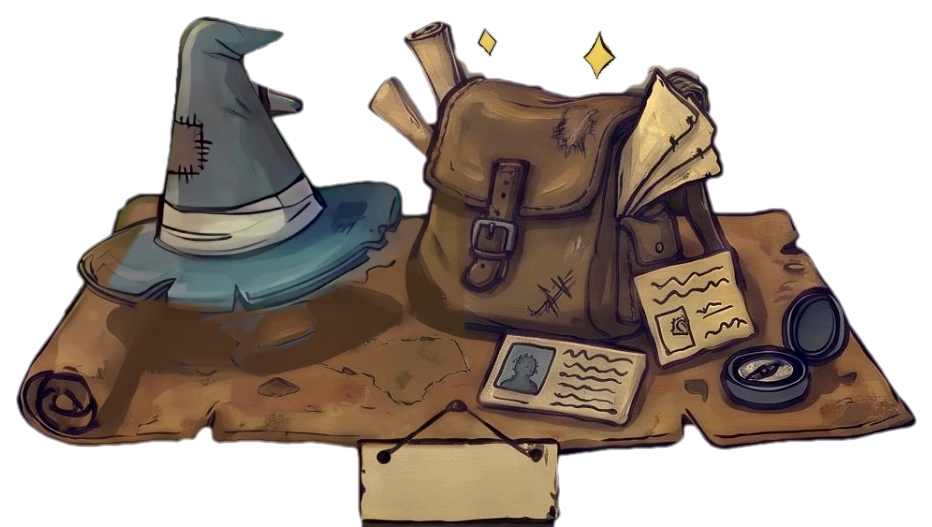
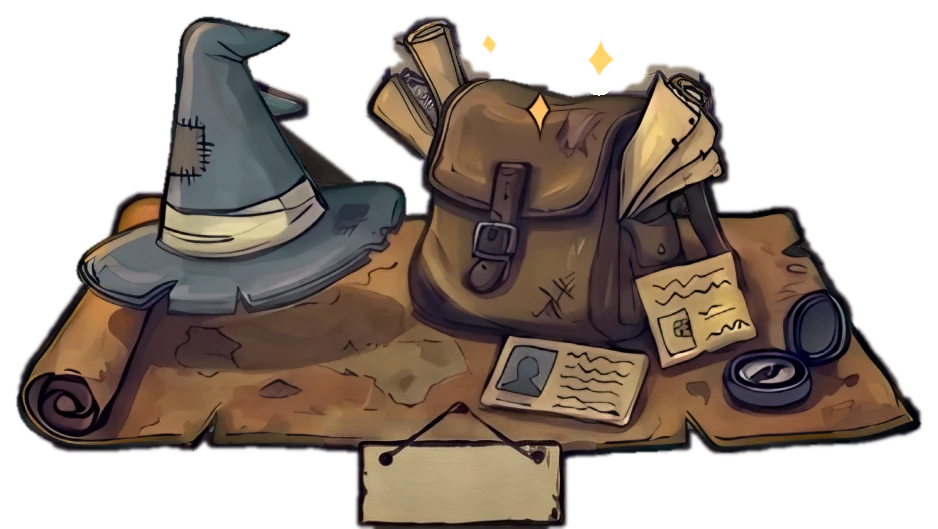
v26: Gemini hover art used directly for Documentation and About, new books hover, sign paper tint, Documentation rename, Copy link centring
Claude-Session: https://claude.ai/code/session_01DVG5f7VBQkdwappbx1RNPL

diff --git a/concepts/scenes/workshop.js b/concepts/scenes/workshop.js
@@ -12,7 +12,7 @@ PF.init({
   icons:{games:'art2/icon-games.png',docs:'art2/icon-docs.png',art:'art2/icon-art.png',about:'art2/icon-about.png',contact:'art2/icon-contact.png'},
   flavor:{
     games:{name:'Games',sub:'Shipped titles, student games and jams'},
-    docs:{name:'Documents',sub:'Fan GDDs and systems design logs'},
+    docs:{name:'Documentation',sub:'Fan GDDs and systems design logs'},
     art:{name:'3D Art',sub:'Models you can rotate'},
     about:{name:'About',sub:'Character sheet, experience, education'},
     contact:{name:'Contact',sub:'Email, CV and message form'}
@@ -20,8 +20,9 @@ PF.init({
   draw:function(svg,P){
     var el=P.el,K=900/572,OX=(1600-1024*K)/2,T='translate('+OX+',0) scale('+K+')';
     var CUT={raven:{x:49.69,y:19.48,w:233.74,h:296.94},construct:{x:769.59,y:48.10,w:254.41,h:273.49},books:{x:50.09,y:331.93,w:234.93,h:239.70},about:{x:333.52,y:358.96,w:377.24,h:212.67},disc:{x:674.98,y:275.88,w:284.22,h:295.75}};
-    var HOV={raven:{x:53.66,y:22.66,w:294.56,h:289.39},books:{x:45.32,y:212.67,w:245.66,h:197.96},construct:{x:748.52,y:50.48,w:205.12,h:209.09},about:{x:336.30,y:362.14,w:370.48,h:209.49},disc:{x:718.31,y:280.25,w:236.52,h:256.00}};
-    var RING={"disc":"M843.13 567.66 807.75 568.01 797.81 567.80 795.43 567.05 791.82 563.28 790.78 560.50 789.90 543.80 790.00 537.04 791.11 533.86 790.66 532.90 777.14 526.69 772.77 527.71 768.40 527.68 764.02 526.95 760.05 525.02 758.06 524.64 751.70 527.14 745.34 527.28 735.40 525.91 733.02 524.89 728.66 520.75 728.04 519.16 728.12 517.57 732.08 511.60 736.20 506.75 738.02 502.06 737.52 500.07 735.66 496.89 734.30 488.55 732.62 485.83 730.63 484.50 714.73 481.58 699.63 482.31 694.06 481.34 691.74 480.20 690.03 478.61 685.10 472.25 684.22 469.47 684.51 467.08 687.11 461.91 689.69 459.35 695.25 455.86 702.81 452.48 713.54 449.81 715.21 448.40 712.15 432.10 710.82 418.98 710.84 404.67 712.95 386.39 715.83 374.06 720.62 360.55 728.15 345.04 734.75 335.11 743.21 324.37 753.69 313.89 763.63 306.16 773.57 299.85 783.90 294.66 794.63 290.48 806.56 287.27 821.66 285.13 833.99 285.10 838.76 286.18 846.31 286.54 866.98 292.82 870.56 293.10 873.34 293.94 884.07 299.02 888.84 301.85 906.73 314.81 913.89 320.63 916.27 324.42 924.54 334.71 929.83 342.66 935.87 353.39 941.15 365.71 944.32 375.25 947.48 388.77 949.55 405.47 949.70 415.80 951.16 420.57 951.14 424.15 949.92 431.70 947.06 445.22 944.75 453.57 931.06 482.58 930.88 485.37 932.02 488.94 932.31 493.32 934.85 500.07 934.57 502.06 932.95 505.24 932.77 510.01 931.73 512.40 930.19 513.92 928.20 514.82 921.84 515.13 918.66 518.36 916.67 519.42 911.50 518.67 908.72 519.18 900.37 525.88 894.81 529.02 891.23 529.34 882.88 527.62 871.27 532.67 870.59 533.86 872.83 536.25 874.05 540.62 874.47 551.35 874.03 562.48 873.27 564.47 871.75 565.66 869.37 566.34 843.13 567.66Z","raven":"M142.71 308.88 135.95 309.21 124.82 308.32 122.43 307.29 120.40 305.69 119.48 304.10 119.01 301.71 119.23 291.78 117.71 281.04 118.37 276.27 119.87 274.68 122.43 273.73 132.91 273.09 137.90 268.72 138.29 267.93 137.93 267.13 132.37 266.03 128.80 265.91 111.70 267.86 69.17 267.82 65.19 267.20 62.01 266.00 59.05 263.55 57.37 261.17 56.11 254.41 56.41 240.50 58.54 235.73 60.02 234.19 62.81 232.54 63.61 230.56 63.27 207.11 63.84 202.73 64.93 199.16 63.29 190.81 62.87 168.94 63.54 163.78 66.38 155.83 64.62 150.26 63.68 143.50 63.65 127.60 64.15 122.04 65.82 115.68 68.56 109.71 66.99 105.74 66.98 102.16 68.69 93.02 72.28 81.89 75.73 75.13 79.80 69.57 83.08 66.42 87.78 64.00 89.72 58.04 94.21 52.77 115.68 36.08 120.05 33.68 127.20 32.32 132.77 29.65 138.73 27.74 150.26 25.64 163.38 25.08 175.30 25.59 185.24 27.57 189.22 29.12 192.80 31.47 199.95 32.53 205.52 34.95 218.63 44.51 226.19 50.78 229.38 54.06 231.48 58.04 235.33 60.42 238.60 63.60 240.99 67.18 246.75 78.31 253.01 96.99 254.29 102.56 254.10 107.73 255.30 111.30 255.85 115.28 256.42 125.61 256.77 126.81 257.59 127.51 259.98 127.43 268.72 124.69 270.71 125.12 273.09 126.60 274.68 126.79 284.22 124.08 293.50 120.45 310.86 110.23 315.23 108.20 317.22 108.47 318.79 110.11 318.91 112.50 317.51 116.47 318.01 117.19 318.81 117.18 323.67 114.88 335.11 108.22 338.29 107.27 339.88 107.66 341.25 108.92 341.71 110.51 341.33 112.89 338.59 117.66 332.30 124.82 332.17 126.01 333.91 126.23 345.04 122.83 346.63 123.18 347.73 124.02 348.47 126.81 346.72 130.39 339.88 137.24 335.90 140.14 325.59 145.89 325.81 146.68 326.76 147.01 335.90 147.63 337.49 148.81 338.04 150.66 337.09 152.76 333.91 155.61 323.11 160.60 322.92 161.39 324.12 164.57 322.78 166.99 319.20 169.06 314.43 170.89 308.87 170.89 306.56 174.51 304.89 175.94 301.71 177.51 296.15 179.15 294.78 182.46 292.97 184.24 290.58 185.10 283.03 186.30 280.71 189.61 279.06 190.91 272.55 192.00 271.30 195.58 269.91 196.95 266.73 198.11 262.76 198.19 261.68 199.16 258.40 205.12 257.60 211.48 256.78 228.57 257.59 230.72 261.57 232.72 263.45 234.53 264.98 237.32 265.98 240.50 267.02 246.06 267.05 253.22 265.96 259.98 264.35 262.43 260.77 264.90 256.80 265.86 204.72 266.31 184.49 267.93 183.72 268.72 183.86 269.52 186.83 271.86 188.82 272.30 198.36 272.56 200.30 273.49 201.48 275.08 201.89 277.86 201.88 302.11 201.54 304.10 200.75 305.31 197.96 306.71 188.02 307.60 142.71 308.88Z","books":"M215.85 567.70 137.14 568.01 129.59 566.55 127.20 565.00 124.82 562.55 123.07 558.51 122.48 549.76 122.55 535.45 123.83 531.48 126.01 528.91 129.19 526.59 134.56 524.72 134.76 523.48 113.23 515.18 90.63 508.15 60.02 496.77 56.30 494.51 53.07 490.53 52.19 487.35 52.41 482.98 53.72 479.80 57.16 475.83 57.55 473.84 56.05 464.36 54.46 460.47 51.34 456.75 50.13 453.96 49.74 450.39 50.24 447.20 51.34 444.82 53.66 442.27 59.25 438.86 60.34 437.66 60.08 430.51 60.58 426.14 64.60 414.21 68.77 409.87 74.73 407.21 75.83 406.26 75.28 396.72 76.46 391.95 77.95 388.77 80.70 385.85 83.08 384.13 96.26 378.43 98.25 376.84 97.89 375.25 93.51 369.69 91.33 364.52 89.56 357.76 89.52 348.62 90.79 342.26 92.75 337.49 96.60 331.43 99.30 328.75 101.37 327.47 106.93 326.12 112.89 326.01 137.94 327.96 151.85 327.89 159.80 325.02 169.34 322.76 172.12 322.82 176.94 323.98 178.88 323.80 198.28 316.42 207.90 312.24 213.47 311.06 218.24 311.79 224.20 314.55 232.55 316.33 236.12 318.64 239.97 323.18 241.21 327.55 240.31 339.08 241.52 343.85 241.52 348.22 240.04 352.20 235.33 357.03 232.15 358.82 227.38 359.94 215.45 360.16 201.14 362.02 194.78 362.19 190.01 363.26 189.21 364.12 200.75 367.68 207.11 370.97 226.19 374.70 244.47 376.98 250.43 378.18 253.22 379.39 256.17 382.01 257.79 384.40 258.72 388.37 258.61 391.95 256.79 397.91 256.79 399.50 258.98 402.68 260.77 407.00 263.16 410.24 264.23 413.81 264.11 417.79 261.54 423.35 261.64 426.14 262.60 427.73 267.85 432.10 273.89 435.90 277.14 439.25 279.15 442.43 280.89 446.81 281.69 451.18 281.33 463.90 280.04 471.45 278.53 475.83 276.27 478.80 273.09 481.30 257.19 488.37 231.03 497.69 210.68 506.31 189.61 513.89 187.74 515.18 187.56 516.37 188.42 517.43 197.63 523.53 200.35 523.96 214.66 523.73 217.84 524.28 221.81 525.95 225.59 529.89 226.92 534.66 226.81 538.63 225.66 543.01 226.81 547.78 227.30 552.94 226.77 558.51 225.34 562.09 222.61 565.00 219.83 566.72 215.85 567.70Z","construct":"M1023.60 271.46 1020.02 271.33 1012.07 269.92 993.39 269.48 983.06 270.01 980.27 270.59 978.75 271.50 977.13 274.29 976.93 276.67 978.29 279.75 981.86 282.59 982.80 284.22 983.07 297.74 984.18 304.89 983.42 308.07 979.88 310.93 945.29 311.99 918.26 311.67 911.90 312.36 909.12 311.85 906.29 310.06 905.22 307.28 905.21 299.33 905.89 294.96 905.65 285.81 908.00 281.04 908.55 278.66 908.00 276.27 906.67 274.29 904.44 273.09 897.99 271.54 889.24 270.32 867.38 270.66 860.22 269.90 845.12 269.65 837.57 266.21 830.01 260.80 823.25 258.62 815.70 255.21 810.53 253.51 804.57 249.33 800.04 244.87 794.57 242.48 792.81 240.50 790.58 236.52 785.60 232.55 782.41 223.40 782.57 220.22 784.70 216.41 785.31 214.26 784.92 211.88 783.50 209.55 781.52 208.34 774.76 206.08 766.01 202.21 755.68 196.23 751.39 192.40 750.65 190.41 750.57 187.63 751.92 173.71 753.85 166.16 757.27 160.52 760.94 152.25 763.23 149.36 766.41 147.65 770.39 146.56 775.55 146.04 780.72 146.40 783.50 147.21 788.27 150.10 795.43 150.87 803.76 153.84 807.75 153.93 808.94 153.36 813.99 139.93 812.92 136.22 808.12 131.98 807.02 128.80 807.03 124.02 807.53 122.04 808.88 120.45 812.15 118.06 813.89 114.48 813.71 111.80 811.58 106.93 812.40 102.96 814.76 99.38 821.66 92.60 823.65 91.68 828.42 90.75 829.95 89.84 832.61 84.67 834.39 82.79 837.57 81.23 844.72 79.24 847.11 79.79 851.19 83.08 853.86 83.92 857.04 83.60 860.62 81.70 863.01 81.18 873.34 82.49 877.30 81.89 879.62 80.30 880.98 77.52 881.24 75.53 880.56 70.76 881.07 68.37 886.86 62.55 892.02 60.28 897.59 60.55 900.27 60.02 901.57 59.17 904.75 55.30 909.12 53.18 912.70 52.54 918.26 53.04 922.61 54.86 925.06 58.83 927.01 60.39 930.19 61.11 934.56 61.07 938.53 62.58 942.60 66.39 944.75 69.96 945.13 72.75 943.53 77.91 943.62 80.30 944.97 83.08 948.61 85.86 950.40 88.25 950.78 96.20 950.26 98.98 949.31 100.57 944.60 103.35 943.07 104.94 942.04 107.33 941.95 109.32 943.30 115.20 944.26 117.27 945.79 118.86 951.59 122.04 956.34 132.37 960.74 137.94 961.77 140.32 962.32 143.90 962.10 148.27 957.32 156.22 956.56 159.80 957.67 163.78 961.02 170.14 962.00 175.30 964.82 181.66 965.59 188.82 969.22 195.18 969.48 206.31 968.42 212.67 969.54 216.37 971.93 218.41 976.91 219.43 990.21 218.88 992.20 219.63 996.25 222.61 1001.74 223.43 1007.30 222.37 1010.88 218.17 1013.27 216.72 1023.60 215.89Z","about":"M559.70 567.76 478.21 567.87 477.01 567.25 476.33 565.66 476.34 561.29 477.13 556.92 476.63 544.20 476.22 542.55 475.03 541.64 468.27 541.30 460.32 540.20 453.17 540.54 436.47 539.79 422.96 540.14 420.17 539.57 416.60 537.61 415.40 537.88 412.62 540.00 410.24 540.65 400.70 539.41 391.95 540.51 378.83 541.34 364.92 541.30 357.76 539.26 351.40 534.79 344.67 528.30 342.93 525.12 341.98 521.14 341.99 516.77 342.94 512.00 346.11 505.24 356.98 489.74 357.59 488.15 357.53 484.97 357.99 483.38 363.06 475.83 363.29 474.24 361.88 468.27 363.46 462.71 365.25 459.93 367.30 457.84 376.55 451.58 379.80 443.63 384.40 438.46 389.96 435.25 395.53 434.23 396.78 432.89 399.06 419.78 403.24 376.05 405.23 371.28 408.65 367.41 413.81 364.79 416.60 364.24 420.17 364.27 424.94 364.99 436.76 368.10 448.00 369.86 451.58 370.91 453.57 372.44 454.43 374.06 454.53 375.65 452.90 378.83 448.80 382.25 440.05 386.42 439.12 387.58 439.05 388.77 440.84 393.27 444.42 399.92 460.72 426.56 463.18 430.11 465.09 431.17 483.78 429.40 490.53 430.01 494.51 431.25 498.09 433.15 499.28 432.89 500.36 426.93 497.92 423.75 496.82 420.97 487.24 413.02 482.40 408.25 480.83 406.26 480.36 403.88 482.88 397.52 488.20 389.57 494.09 385.19 494.10 384.00 491.25 379.63 491.16 377.64 491.82 376.05 493.32 374.64 497.69 372.52 501.66 369.11 505.64 367.79 513.59 367.28 516.22 368.50 517.38 370.88 521.14 383.92 522.84 387.98 524.32 389.21 536.25 388.99 549.37 391.83 564.07 395.87 588.32 395.83 589.52 395.52 590.71 394.35 594.04 387.58 595.48 386.60 597.07 386.36 601.84 387.98 606.21 387.41 610.98 388.36 614.56 390.66 618.99 395.13 620.34 398.31 620.06 404.27 623.08 408.25 624.55 411.43 624.71 413.81 623.60 418.58 627.14 428.52 627.07 430.51 626.41 432.10 622.12 436.47 623.16 440.84 624.50 441.82 628.07 442.47 632.45 444.39 636.02 444.33 645.96 442.60 649.54 443.44 651.93 445.17 658.29 459.93 662.90 465.89 664.65 470.07 668.31 476.22 671.80 480.20 673.51 482.98 674.44 485.37 675.38 490.66 689.17 508.42 692.09 512.80 694.33 517.57 697.24 519.96 701.15 525.12 701.87 527.11 701.70 529.49 699.63 532.11 694.46 534.44 673.39 538.48 649.14 539.44 634.83 541.30 622.91 542.13 618.53 540.85 612.17 535.14 611.38 535.46 609.39 539.42 606.21 540.79 594.29 541.37 588.32 540.25 585.54 540.23 580.37 540.72 573.61 542.85 562.48 543.54 561.42 544.20 561.06 545.39 561.18 565.66 560.81 566.86 559.70 567.76Z"};
+    var HOV={raven:{x:53.66,y:22.66,w:294.56,h:289.39},books:{x:47.70,y:242.09,w:235.33,h:287.01},construct:{x:748.52,y:50.48,w:205.12,h:209.09},about:{x:335.50,y:361.34,w:372.87,h:210.29},disc:{x:718.31,y:280.25,w:236.52,h:256.00}};
+    var SGN={raven:{x:118.86,y:271.90,w:83.08,h:36.97},books:{x:124.82,y:526.71,w:97.79,h:38.16},construct:{x:904.75,y:279.85,w:79.11,h:33.79},about:{x:474.63,y:531.88,w:87.06,h:37.76},disc:{x:789.86,y:531.88,w:85.86,h:34.98}};
+    var RING={"disc":"M843.13 567.66 807.75 568.01 797.81 567.80 795.43 567.05 791.82 563.28 790.78 560.50 789.90 543.80 790.00 537.04 791.11 533.86 790.66 532.90 777.14 526.69 772.77 527.71 768.40 527.68 764.02 526.95 760.05 525.02 758.06 524.64 751.70 527.14 745.34 527.28 735.40 525.91 733.02 524.89 728.66 520.75 728.04 519.16 728.12 517.57 732.08 511.60 736.20 506.75 738.02 502.06 737.52 500.07 735.66 496.89 734.30 488.55 732.62 485.83 730.63 484.50 714.73 481.58 699.63 482.31 694.06 481.34 691.74 480.20 690.03 478.61 685.10 472.25 684.22 469.47 684.51 467.08 687.11 461.91 689.69 459.35 695.25 455.86 702.81 452.48 713.54 449.81 715.21 448.40 712.15 432.10 710.82 418.98 710.84 404.67 712.95 386.39 715.83 374.06 720.62 360.55 728.15 345.04 734.75 335.11 743.21 324.37 753.69 313.89 763.63 306.16 773.57 299.85 783.90 294.66 794.63 290.48 806.56 287.27 821.66 285.13 833.99 285.10 838.76 286.18 846.31 286.54 866.98 292.82 870.56 293.10 873.34 293.94 884.07 299.02 888.84 301.85 906.73 314.81 913.89 320.63 916.27 324.42 924.54 334.71 929.83 342.66 935.87 353.39 941.15 365.71 944.32 375.25 947.48 388.77 949.55 405.47 949.70 415.80 951.16 420.57 951.14 424.15 949.92 431.70 947.06 445.22 944.75 453.57 931.06 482.58 930.88 485.37 932.02 488.94 932.31 493.32 934.85 500.07 934.57 502.06 932.95 505.24 932.77 510.01 931.73 512.40 930.19 513.92 928.20 514.82 921.84 515.13 918.66 518.36 916.67 519.42 911.50 518.67 908.72 519.18 900.37 525.88 894.81 529.02 891.23 529.34 882.88 527.62 871.27 532.67 870.59 533.86 872.83 536.25 874.05 540.62 874.47 551.35 874.03 562.48 873.27 564.47 871.75 565.66 869.37 566.34 843.13 567.66Z","raven":"M142.71 308.88 135.95 309.21 124.82 308.32 122.43 307.29 120.40 305.69 119.48 304.10 119.01 301.71 119.23 291.78 117.71 281.04 118.37 276.27 119.87 274.68 122.43 273.73 132.91 273.09 137.90 268.72 138.29 267.93 137.93 267.13 132.37 266.03 128.80 265.91 111.70 267.86 69.17 267.82 65.19 267.20 62.01 266.00 59.05 263.55 57.37 261.17 56.11 254.41 56.41 240.50 58.54 235.73 60.02 234.19 62.81 232.54 63.61 230.56 63.27 207.11 63.84 202.73 64.93 199.16 63.29 190.81 62.87 168.94 63.54 163.78 66.38 155.83 64.62 150.26 63.68 143.50 63.65 127.60 64.15 122.04 65.82 115.68 68.56 109.71 66.99 105.74 66.98 102.16 68.69 93.02 72.28 81.89 75.73 75.13 79.80 69.57 83.08 66.42 87.78 64.00 89.72 58.04 94.21 52.77 115.68 36.08 120.05 33.68 127.20 32.32 132.77 29.65 138.73 27.74 150.26 25.64 163.38 25.08 175.30 25.59 185.24 27.57 189.22 29.12 192.80 31.47 199.95 32.53 205.52 34.95 218.63 44.51 226.19 50.78 229.38 54.06 231.48 58.04 235.33 60.42 238.60 63.60 240.99 67.18 246.75 78.31 253.01 96.99 254.29 102.56 254.10 107.73 255.30 111.30 255.85 115.28 256.42 125.61 256.77 126.81 257.59 127.51 259.98 127.43 268.72 124.69 270.71 125.12 273.09 126.60 274.68 126.79 284.22 124.08 293.50 120.45 310.86 110.23 315.23 108.20 317.22 108.47 318.79 110.11 318.91 112.50 317.51 116.47 318.01 117.19 318.81 117.18 323.67 114.88 335.11 108.22 338.29 107.27 339.88 107.66 341.25 108.92 341.71 110.51 341.33 112.89 338.59 117.66 332.30 124.82 332.17 126.01 333.91 126.23 345.04 122.83 346.63 123.18 347.73 124.02 348.47 126.81 346.72 130.39 339.88 137.24 335.90 140.14 325.59 145.89 325.81 146.68 326.76 147.01 335.90 147.63 337.49 148.81 338.04 150.66 337.09 152.76 333.91 155.61 323.11 160.60 322.92 161.39 324.12 164.57 322.78 166.99 319.20 169.06 314.43 170.89 308.87 170.89 306.56 174.51 304.89 175.94 301.71 177.51 296.15 179.15 294.78 182.46 292.97 184.24 290.58 185.10 283.03 186.30 280.71 189.61 279.06 190.91 272.55 192.00 271.30 195.58 269.91 196.95 266.73 198.11 262.76 198.19 261.68 199.16 258.40 205.12 257.60 211.48 256.78 228.57 257.59 230.72 261.57 232.72 263.45 234.53 264.98 237.32 265.98 240.50 267.02 246.06 267.05 253.22 265.96 259.98 264.35 262.43 260.77 264.90 256.80 265.86 204.72 266.31 184.49 267.93 183.72 268.72 183.86 269.52 186.83 271.86 188.82 272.30 198.36 272.56 200.30 273.49 201.48 275.08 201.89 277.86 201.88 302.11 201.54 304.10 200.75 305.31 197.96 306.71 188.02 307.60 142.71 308.88Z","books":"M218.63 561.79 131.98 562.05 128.80 561.60 127.90 560.50 127.66 558.91 127.90 531.08 128.80 529.97 129.99 529.60 141.91 529.29 143.51 528.30 143.90 527.50 143.64 526.71 110.52 514.78 91.43 509.05 63.60 498.65 57.64 495.77 53.87 491.73 52.54 486.96 53.16 482.19 56.05 477.34 56.98 474.63 56.67 467.88 54.46 461.58 50.68 456.35 49.74 451.58 50.02 448.80 51.34 445.61 57.64 439.72 59.23 437.10 59.97 434.09 60.65 426.14 64.30 415.80 66.99 412.22 72.75 407.94 74.49 405.47 75.47 401.89 75.77 395.13 77.68 389.96 83.08 384.56 98.65 377.24 100.63 375.65 102.09 373.27 102.82 370.48 102.60 368.10 99.66 360.94 97.61 353.79 97.47 343.45 97.96 337.49 99.12 333.52 102.86 323.98 105.34 320.61 108.92 317.93 113.69 316.70 146.68 313.20 159.01 311.27 162.58 309.86 166.56 306.52 169.34 305.12 176.10 303.52 180.47 303.56 183.90 302.91 193.06 297.34 213.07 282.79 216.25 281.30 220.22 280.65 223.80 281.18 228.97 283.01 235.33 283.56 238.91 284.53 242.88 286.87 248.39 292.57 251.06 299.73 250.79 309.66 253.89 318.01 253.47 323.98 251.85 329.14 250.50 331.53 247.43 334.71 243.28 337.36 227.78 341.66 205.63 346.63 201.09 348.22 196.37 352.26 191.69 354.98 190.01 356.59 188.23 360.94 188.74 364.52 190.81 367.79 194.39 369.60 228.57 375.56 248.45 378.30 253.22 379.73 256.40 382.22 258.39 384.80 259.46 388.37 259.41 391.95 258.06 397.52 258.34 400.30 260.77 406.58 263.35 411.03 264.18 413.81 264.18 417.79 262.84 423.35 263.47 426.93 264.75 429.31 266.54 431.30 273.49 435.94 277.07 439.54 279.14 442.43 281.63 449.99 281.80 458.73 281.23 466.29 279.56 474.63 277.99 477.42 273.09 482.03 257.99 488.77 233.00 497.69 213.47 505.87 203.59 509.22 187.58 515.58 187.45 516.37 188.57 517.57 205.34 529.09 207.50 529.51 217.84 529.60 219.74 530.68 220.18 533.07 220.17 558.91 219.74 560.89 218.63 561.79Z","construct":"M1023.60 271.46 1020.02 271.33 1012.07 269.92 993.39 269.48 983.06 270.01 980.27 270.59 978.75 271.50 977.13 274.29 976.93 276.67 978.29 279.75 981.86 282.59 982.80 284.22 983.07 297.74 984.18 304.89 983.42 308.07 979.88 310.93 945.29 311.99 918.26 311.67 911.90 312.36 909.12 311.85 906.29 310.06 905.22 307.28 905.21 299.33 905.89 294.96 905.65 285.81 908.00 281.04 908.55 278.66 908.00 276.27 906.67 274.29 904.44 273.09 897.99 271.54 889.24 270.32 867.38 270.66 860.22 269.90 845.12 269.65 837.57 266.21 830.01 260.80 823.25 258.62 815.70 255.21 810.53 253.51 804.57 249.33 800.04 244.87 794.57 242.48 792.81 240.50 790.58 236.52 785.60 232.55 782.41 223.40 782.57 220.22 784.70 216.41 785.31 214.26 784.92 211.88 783.50 209.55 781.52 208.34 774.76 206.08 766.01 202.21 755.68 196.23 751.39 192.40 750.65 190.41 750.57 187.63 751.92 173.71 753.85 166.16 757.27 160.52 760.94 152.25 763.23 149.36 766.41 147.65 770.39 146.56 775.55 146.04 780.72 146.40 783.50 147.21 788.27 150.10 795.43 150.87 803.76 153.84 807.75 153.93 808.94 153.36 813.99 139.93 812.92 136.22 808.12 131.98 807.02 128.80 807.03 124.02 807.53 122.04 808.88 120.45 812.15 118.06 813.89 114.48 813.71 111.80 811.58 106.93 812.40 102.96 814.76 99.38 821.66 92.60 823.65 91.68 828.42 90.75 829.95 89.84 832.61 84.67 834.39 82.79 837.57 81.23 844.72 79.24 847.11 79.79 851.19 83.08 853.86 83.92 857.04 83.60 860.62 81.70 863.01 81.18 873.34 82.49 877.30 81.89 879.62 80.30 880.98 77.52 881.24 75.53 880.56 70.76 881.07 68.37 886.86 62.55 892.02 60.28 897.59 60.55 900.27 60.02 901.57 59.17 904.75 55.30 909.12 53.18 912.70 52.54 918.26 53.04 922.61 54.86 925.06 58.83 927.01 60.39 930.19 61.11 934.56 61.07 938.53 62.58 942.60 66.39 944.75 69.96 945.13 72.75 943.53 77.91 943.62 80.30 944.97 83.08 948.61 85.86 950.40 88.25 950.78 96.20 950.26 98.98 949.31 100.57 944.60 103.35 943.07 104.94 942.04 107.33 941.95 109.32 943.30 115.20 944.26 117.27 945.79 118.86 951.59 122.04 956.34 132.37 960.74 137.94 961.77 140.32 962.32 143.90 962.10 148.27 957.32 156.22 956.56 159.80 957.67 163.78 961.02 170.14 962.00 175.30 964.82 181.66 965.59 188.82 969.22 195.18 969.48 206.31 968.42 212.67 969.54 216.37 971.93 218.41 976.91 219.43 990.21 218.88 992.20 219.63 996.25 222.61 1001.74 223.43 1007.30 222.37 1010.88 218.17 1013.27 216.72 1023.60 215.89Z","about":"M559.70 567.76 478.61 567.94 477.01 567.25 476.33 565.66 476.34 561.29 477.13 556.92 476.63 544.20 476.22 542.55 474.63 541.53 468.67 541.45 464.30 542.59 449.99 542.90 436.87 541.78 422.96 542.52 417.79 541.25 416.60 541.54 414.21 543.44 412.22 543.95 407.06 542.30 401.49 541.78 384.00 543.32 366.91 543.72 359.75 542.42 351.80 539.53 345.44 535.46 342.01 531.88 339.82 528.30 338.45 523.53 338.41 518.36 339.39 514.39 345.15 502.06 363.06 475.83 363.29 474.24 361.88 468.27 363.46 462.71 365.25 459.93 367.30 457.84 376.84 451.22 379.91 443.23 382.81 439.52 388.77 435.76 391.55 434.79 395.53 434.23 396.78 432.89 399.06 419.78 403.24 376.05 405.23 371.28 408.65 367.41 413.81 364.79 416.60 364.24 420.17 364.27 424.94 364.99 436.76 368.10 448.00 369.86 451.58 370.91 453.57 372.44 454.43 374.06 454.53 375.65 452.90 378.83 448.80 382.25 440.05 386.42 439.12 387.58 439.05 388.77 440.84 393.14 442.43 394.73 454.36 398.84 456.35 399.94 457.86 401.49 458.58 403.88 457.86 406.26 455.95 408.04 452.03 409.84 451.73 411.43 462.26 428.92 463.60 430.51 465.09 431.17 483.78 429.40 490.53 430.01 494.51 431.25 498.09 433.15 499.28 432.89 500.42 427.73 499.93 426.14 489.34 416.50 479.65 409.04 477.98 406.66 477.55 403.48 479.13 399.50 484.03 392.35 486.96 389.70 492.52 386.68 494.09 385.19 494.10 384.00 491.80 380.82 491.10 378.83 491.48 376.45 492.92 373.98 496.50 371.01 504.84 367.13 508.82 365.80 511.20 365.48 513.19 365.83 514.78 366.60 516.19 368.10 521.18 384.00 523.13 387.59 524.72 388.74 536.25 388.99 549.37 391.83 564.07 395.87 582.76 395.55 590.07 393.14 591.11 392.13 592.14 389.17 593.40 387.58 595.08 386.55 597.47 386.20 601.62 387.58 606.21 387.05 610.98 388.33 614.56 390.66 618.99 395.13 620.34 398.31 620.65 404.67 623.57 409.04 624.55 411.43 624.71 413.81 623.60 418.58 627.14 428.52 627.07 430.51 626.41 432.10 622.12 436.47 623.16 440.84 625.29 442.00 632.45 442.06 641.19 440.61 646.36 440.28 650.73 441.27 653.24 443.23 654.81 445.61 658.38 453.57 659.55 457.94 673.42 478.21 678.47 488.55 696.05 514.32 703.08 523.53 704.95 527.90 704.78 531.48 702.92 534.26 700.42 535.74 677.76 540.72 672.60 541.31 651.13 541.82 625.29 544.94 621.71 544.83 617.34 543.74 611.78 540.12 604.62 543.53 595.88 544.52 580.14 544.99 572.42 545.90 570.43 545.43 567.25 543.52 562.48 543.54 561.42 544.20 561.06 545.39 561.18 565.66 560.81 566.86 559.70 567.76Z"};
     var SIGN={raven:[123,276,75,29],books:[129,531,90,30],construct:[909,284,71,26],about:[479,536,79,30],disc:[794,536,78,27]};
     P.defs(
       '<radialGradient id="vig" cx=".5" cy=".5" r=".78"><stop offset=".62" stop-color="#0a0604" stop-opacity="0"/><stop offset="1" stop-color="#0a0604" stop-opacity=".5"/></radialGradient>'
@@ -38,21 +39,21 @@ PF.init({
       var g=el('g',{class:'cut'},svg),w=grp(g,{transform:T}),c=CUT[name];
       /* clickable area = the object's own silhouette (hover pose included) plus a small margin, so hover never ends in the middle of a wing */
       el('path',{d:RING[name],fill:'transparent',stroke:'transparent','stroke-width':10,'stroke-linejoin':'round','pointer-events':'all'},w);
-      pic(w,name,c);
+      pic(w,name,c,(name==='books'||name==='about')?'base swap':'base');
       if(HOV[name])pic(w,name+'-hover',HOV[name],'hov');
       /* gold outline: drawn ABOVE the hover patch but masked to the outside of the silhouette, so nothing can cover it and it never overlaps the art */
       P.defs('<mask id="rm-'+name+'" maskUnits="userSpaceOnUse" x="-50" y="-50" width="1200" height="700"><rect x="-50" y="-50" width="1200" height="700" fill="#fff"/><path d="'+RING[name]+'" fill="#000" fill-rule="evenodd"/></mask>');
       var rg=grp(w,{class:'ring',mask:'url(#rm-'+name+')'});
       ['rg1','rg2','rg3'].forEach(function(c){el('path',{d:RING[name],class:c,'pointer-events':'none'},rg)});
+      pic(w,name+'-sign',SGN[name],'hov');      /* sign paper warms up on hover (own cut-out of the paper only) */
       var s=SIGN[name],tg=grp(w,{class:'wtag'});
-      el('rect',{x:s[0],y:s[1],width:s[2],height:s[3],rx:2},tg);
-      var t=el('text',{x:s[0]+s[2]/2,y:s[1]+s[3]/2+.5},tg);t.textContent=label;
+      var t=el('text',{x:s[0]+s[2]/2,y:s[1]+s[3]/2+.5},tg);t.textContent=label;if(label.length>11)t.setAttribute('style','font-size:10.5px');
       P.hot(key,g,{});   /* no box: the silhouette path above is the hit area; the sign + hover outline are the cue */
       return {g:g};
     }
     object('contact','raven',[52,24,282,316],'Contact');
     object('art','construct',[750,46,1024,322],'3D Art');
-    object('docs','books',[50,334,286,570],'Documents');
+    object('docs','books',[50,334,286,570],'Documentation');
     object('about','about',[336,360,710,570],'About');
     object('games','disc',[684,280,960,570],'Games');
 

diff --git a/concepts/core/data.js b/concepts/core/data.js
@@ -180,9 +180,9 @@
       games:{title:'Games',blurb:'Shipped mobile titles, student games and jam entries',items:games,
         tabs:[{id:'jams',name:'Game Jams',ids:['bigred','clockout']},{id:'student',name:'Student Games',ids:['bumping','warped','worldly']},{id:'shipped',name:'Shipped Games',ids:['shipped']}],
         more:[{t:'Shipped Games page',u:'../shipped-games.html'},{t:'Student Games page',u:'../student-games.html'},{t:'Game Jams page',u:'../game-jams.html'}]},
-      docs:{title:'Design Documents',blurb:'Fan GDDs and systems design logs',items:docs.slice(-1).concat(docs.slice(0,-1)),
+      docs:{title:'Documentation',blurb:'Fan GDDs and systems design logs',items:docs.slice(-1).concat(docs.slice(0,-1)),
         tabs:[{id:'logs',name:'Systems Logs',ids:['log']},{id:'fan',name:'Fan GDDs',cards:true,intro:fanNote,ids:['hollow','hades','bg3','ghost','ori','days']}],
-        more:[{t:'Fan GDD page',u:'../fan-gdd-series.html'},{t:'Systems Documents page',u:'../system-documents.html'}]},
+        more:[{t:'Fan GDD page',u:'../fan-gdd-series.html'},{t:'Systems Documentation page',u:'../system-documents.html'}]},
       art:{title:'3D Art',blurb:'Blender, Substance Painter and Unity',items:art,more:[{t:'3D Art page',u:'../3d-art.html'}]},
       about:{title:'About Me',blurb:'Character sheet, experience and education',items:about,more:[{t:'Full home page',u:'../index.html'}]},
       contact:{title:'Contact',blurb:'Email, phone, CV and a message form',items:contact,more:[{t:'Contact page',u:'../contact.html'}]}

diff --git a/concepts/core/core.css b/concepts/core/core.css
@@ -538,3 +538,12 @@ body[data-theme=workshop] .pf-copy:hover,body[data-theme=workshop] .pf-copy:focu
 .pf-cards .pf-gdd-txt{flex:1 1 auto;display:flex;flex-direction:column}
 .pf-cards .pf-gdd-txt .pf-btns{margin-top:auto;padding-top:10px}
 .pf-cards{grid-auto-rows:1fr}
+
+/* v25: "Copy link" - the label is centred on its own, the icon hangs to its left */
+.pf-copy,body[data-theme=workshop] .pf-copy{gap:0}
+.pf-copy:before{margin-right:-13px;transform:translateX(-19px)}
+body[data-theme=workshop] .pf-copy{padding:0 32px}
+
+/* v26: objects whose hover art is a full replacement (books, about): the normal picture steps aside while hovered */
+.hot.cut .base{transition:opacity .22s ease-out}
+.hot.cut:hover .base.swap,.hot.cut:focus-visible .base.swap,.hot.cut.on .base.swap,.hot.cut.peek .base.swap{opacity:0}
